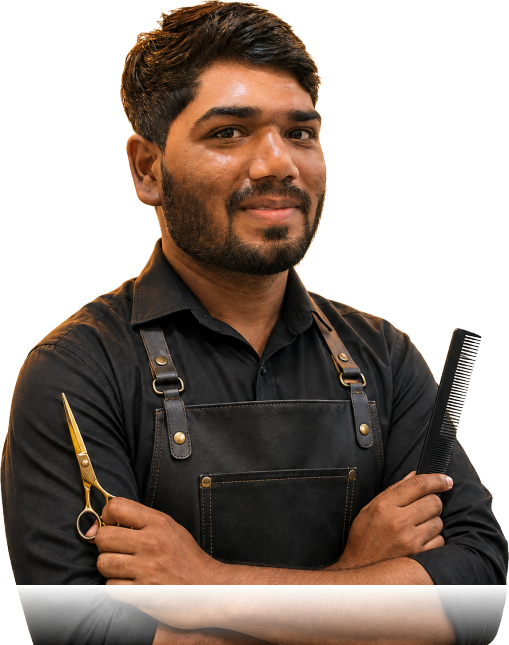
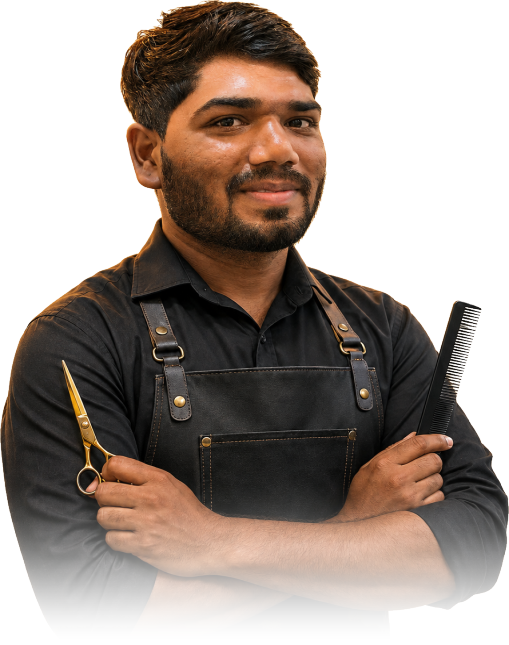
Smoothly feather bottom of barber photo with smoothstep alpha gradient to eliminate straight line edge

diff --git a/static/css/style.css b/static/css/style.css
@@ -3211,8 +3211,8 @@ img { max-width: 100%; display: block; }
   box-shadow: none !important;
   background: transparent !important;
   filter: none !important;
-  -webkit-mask-image: linear-gradient(to bottom, black 70%, transparent 95%);
-  mask-image: linear-gradient(to bottom, black 70%, transparent 95%);
+  -webkit-mask-image: linear-gradient(to bottom, #000 0%, #000 50%, rgba(0,0,0,0.85) 65%, rgba(0,0,0,0.3) 80%, transparent 92%);
+  mask-image: linear-gradient(to bottom, #000 0%, #000 50%, rgba(0,0,0,0.85) 65%, rgba(0,0,0,0.3) 80%, transparent 92%);
 }
 .barber-hero-initials {
   width: 120px;
